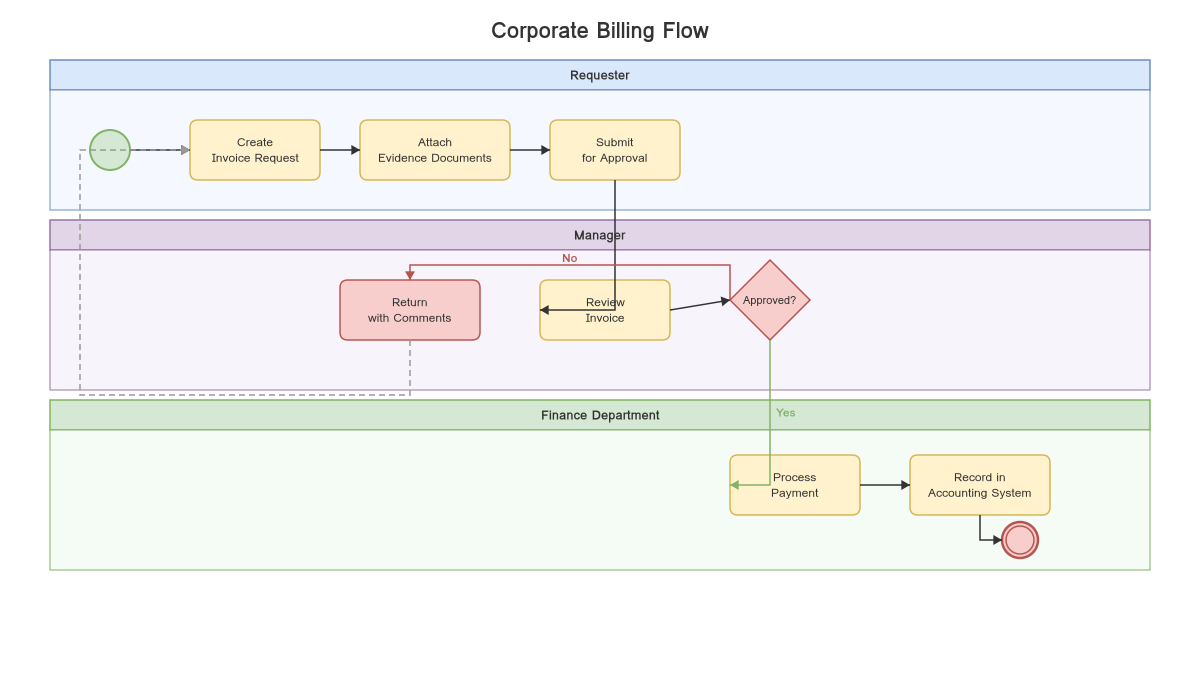
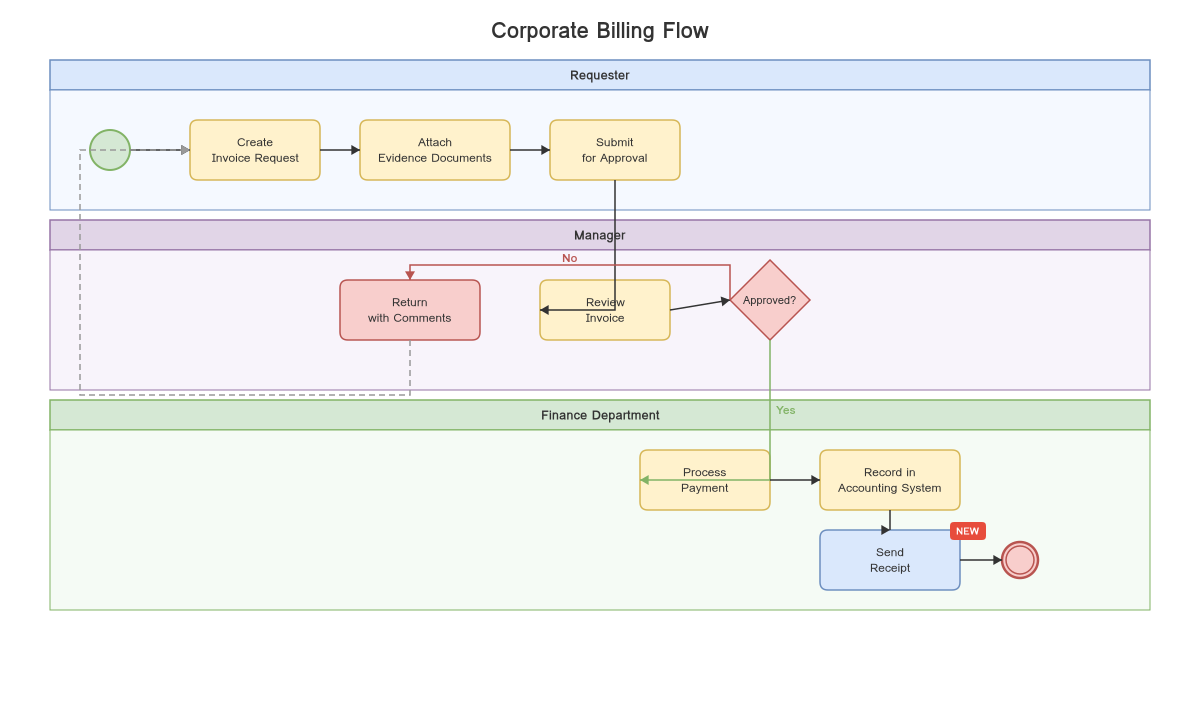
fix: embed時に既存zTXtを削除して更新対応 + example図にSend Receiptステップ追加
- inject_ztxt_chunk: 既存mxGraphModel zTXtチャンクを先に削除するよう修正
  これによりPNG内のXMLを差し替え更新できるようになった
- example: billing-flow に「Send Receipt」ステップを追加（Record→Send Receipt→End）
- PNG画像も再レンダリングして更新済みXMLを再埋め込み

Changed region(s): [[0.0308, 0.0309, 0.9867, 0.8647]]

diff --git a/src/domain/embed.rs b/src/domain/embed.rs
@@ -19,7 +19,17 @@ pub fn create_ztxt_data(xml: &str) -> anyhow::Result<Vec<u8>> {
 }
 
 /// 既存の PNG チャンク一覧に zTXt チャンクを IEND の直前に挿入する
+/// 既存の mxGraphModel zTXt チャンクがあれば先に削除（更新対応）
 pub fn inject_ztxt_chunk(chunks: &mut Vec<PngChunk>, xml: &str) -> anyhow::Result<()> {
+    // Remove existing mxGraphModel zTXt chunks
+    chunks.retain(|c| {
+        if &c.chunk_type == b"zTXt" {
+            !c.data.starts_with(b"mxGraphModel\0")
+        } else {
+            true
+        }
+    });
+
     let ztxt_data = create_ztxt_data(xml)?;
     let ztxt_chunk = PngChunk {
         chunk_type: *b"zTXt",
